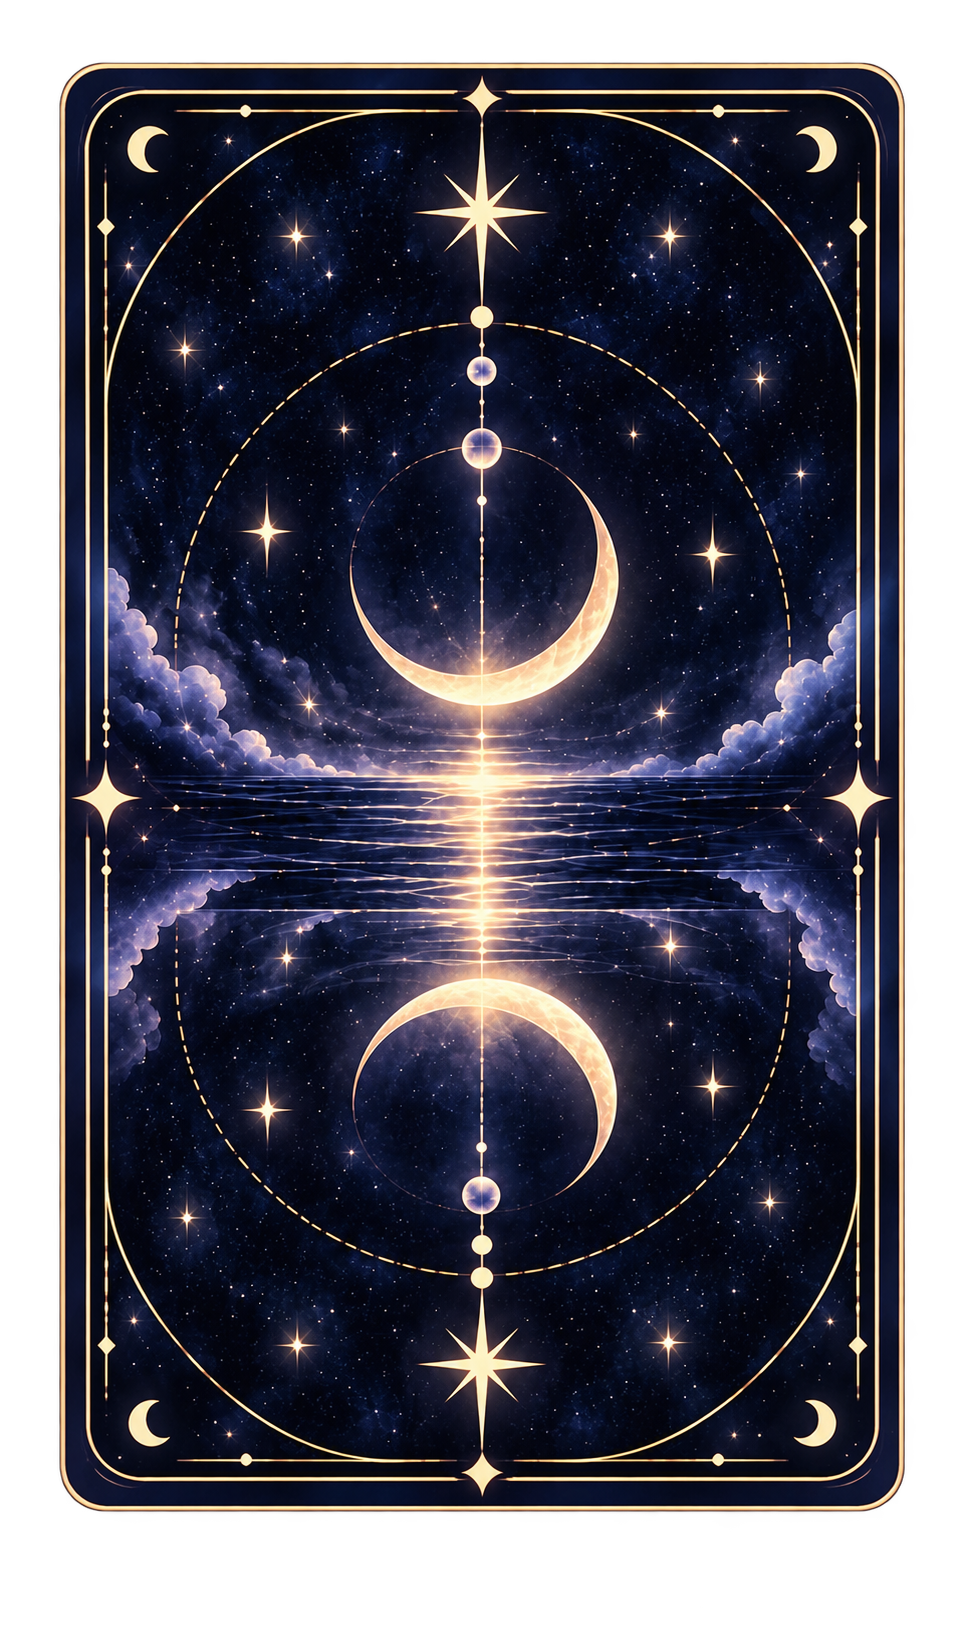
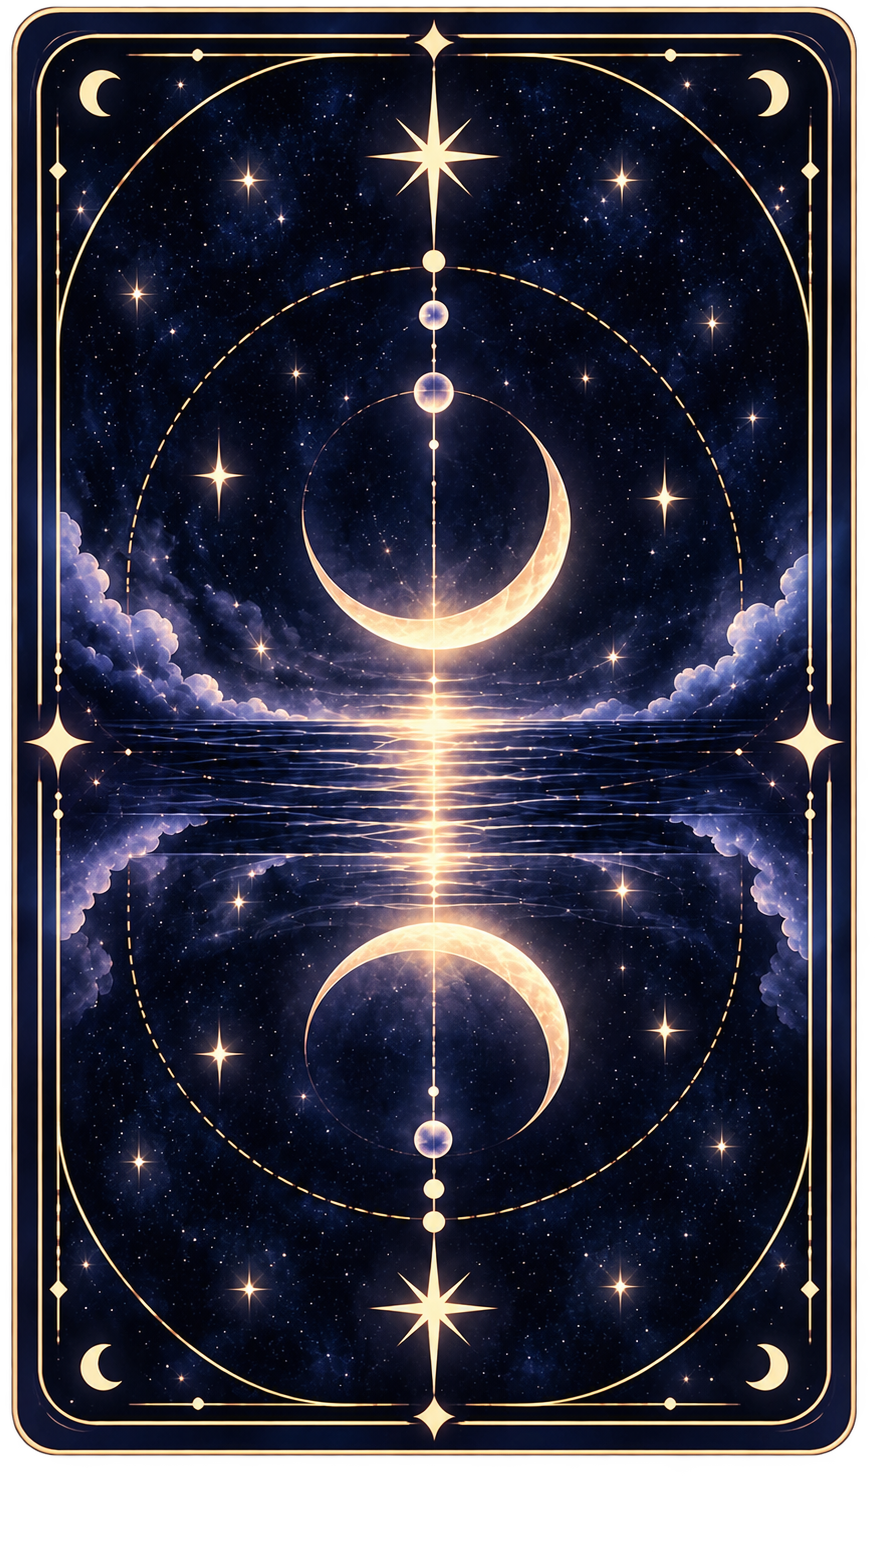
Tighten shared tarot card back framing

diff --git a/src/app/destiny-tarot.css b/src/app/destiny-tarot.css
@@ -137,8 +137,8 @@ body > main.destiny-home { width: 100vw !important; max-width: none !important; 
 .destiny-view-all { border: 0; padding: 4px 0; background: transparent; color: var(--destiny-text-muted); cursor: pointer; font-size: 12px; }
 .destiny-view-all span { font-family: Arial, sans-serif; font-size: 15px; font-weight: 200; vertical-align: -1px; }
 .destiny-reading-card { display: grid; grid-template-columns: 40px 1fr; align-items: center; gap: 13px; border: 1px solid var(--destiny-reading-border); border-radius: 15px; margin-top: 10px; padding: 7px 11px 7px 8px; background: var(--destiny-reading-background); box-shadow: var(--destiny-reading-shadow); }
-.destiny-reading-thumbnail { position: relative; width: 40px; aspect-ratio: 964 / 1632; overflow: visible; background: transparent; }
-.destiny-reading-thumbnail img { object-fit: contain; }
+.destiny-reading-thumbnail { position: relative; width: 40px; aspect-ratio: 877 / 1554; overflow: hidden; background: transparent; }
+.destiny-reading-thumbnail img { object-fit: cover; }
 .destiny-reading-card h3 { margin: 0 0 4px; color: var(--destiny-foreground); font-family: var(--destiny-serif); font-size: 14.5px; font-weight: 500; letter-spacing: -.07em; }
 .destiny-reading-card time { color: var(--destiny-reading-time); font-size: 11px; }
 .destiny-reading-empty { display: flex; min-height: 76px; align-items: center; justify-content: center; gap: 8px; border: 1px dashed rgba(237, 226, 255, .35); border-radius: 16px; margin-top: 12px; color: var(--destiny-moonlight); font-size: 12px; }

diff --git a/src/app/tarot-ui.css b/src/app/tarot-ui.css
@@ -17,12 +17,12 @@
 .deck-grid-card{aspect-ratio:2/3}
 .draw-slot.selected .tarot-card{width:54px;height:81px}
 .reveal-card{height:auto;aspect-ratio:2/3}
-.shuffle-deck span,.reading-loader span{border:0;border-radius:9%;background:url('/tarot/back/today-tarot-card-back.png') center/contain no-repeat;box-shadow:none}
+.shuffle-deck span,.reading-loader span{border:0;border-radius:9%;background:url('/tarot/back/today-tarot-card-back.png') center/100% 100% no-repeat;box-shadow:none}
 
 /* Preserve the complete card art inside its rounded silhouette at every size. */
 .tarot-card-inner{border-radius:9%}
 .tarot-card-back,.tarot-card-front{border-radius:9%}
-.tarot-card-back{background-size:contain}
+.tarot-card-back{background-size:100% 100%}
 
 /* Let five cards fan, cross, and settle over a complete 2.4-second shuffle. */
 .shuffle-deck{width:132px;height:184px;margin-bottom:39px}
